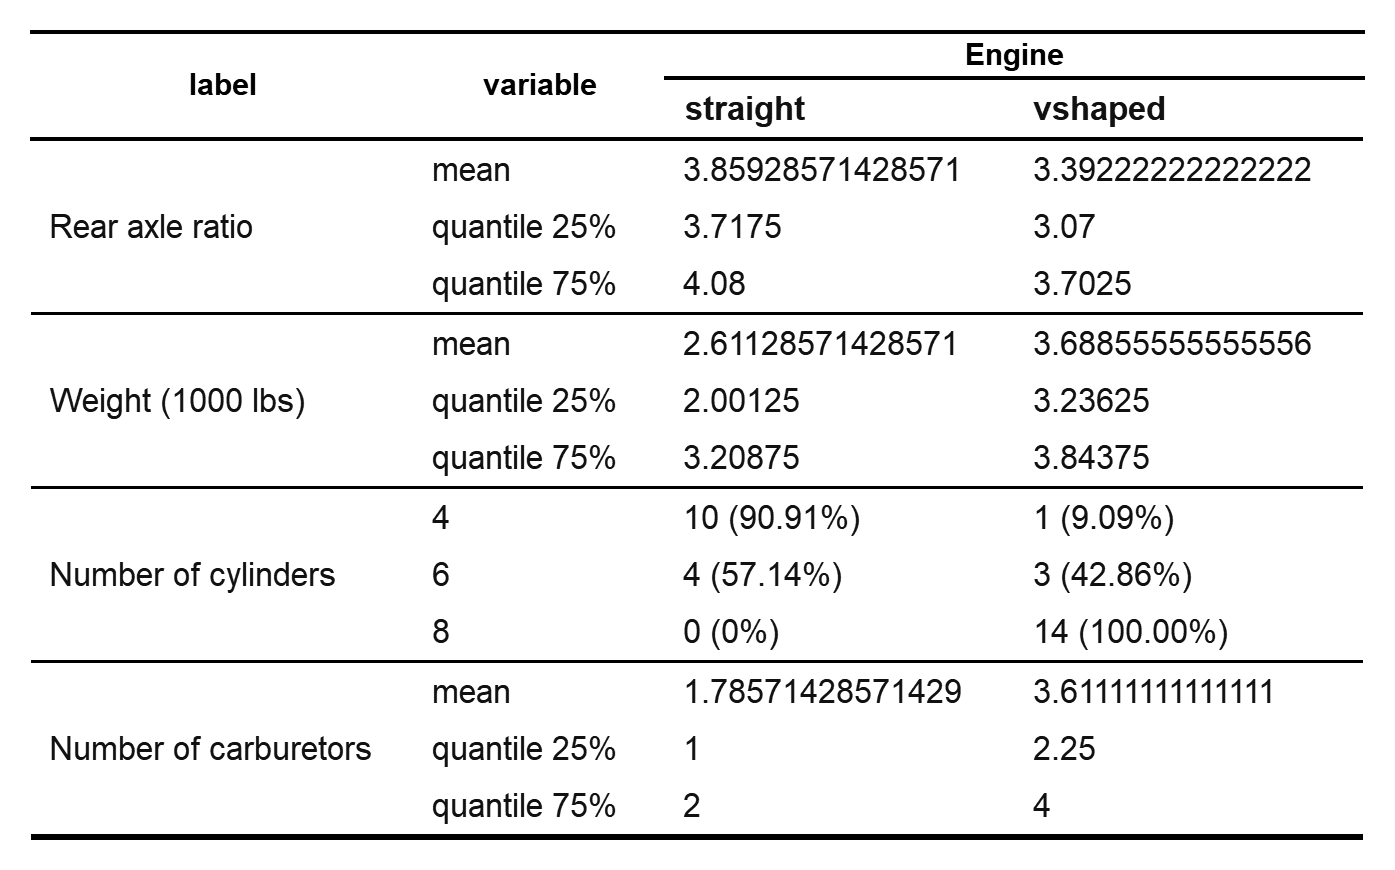
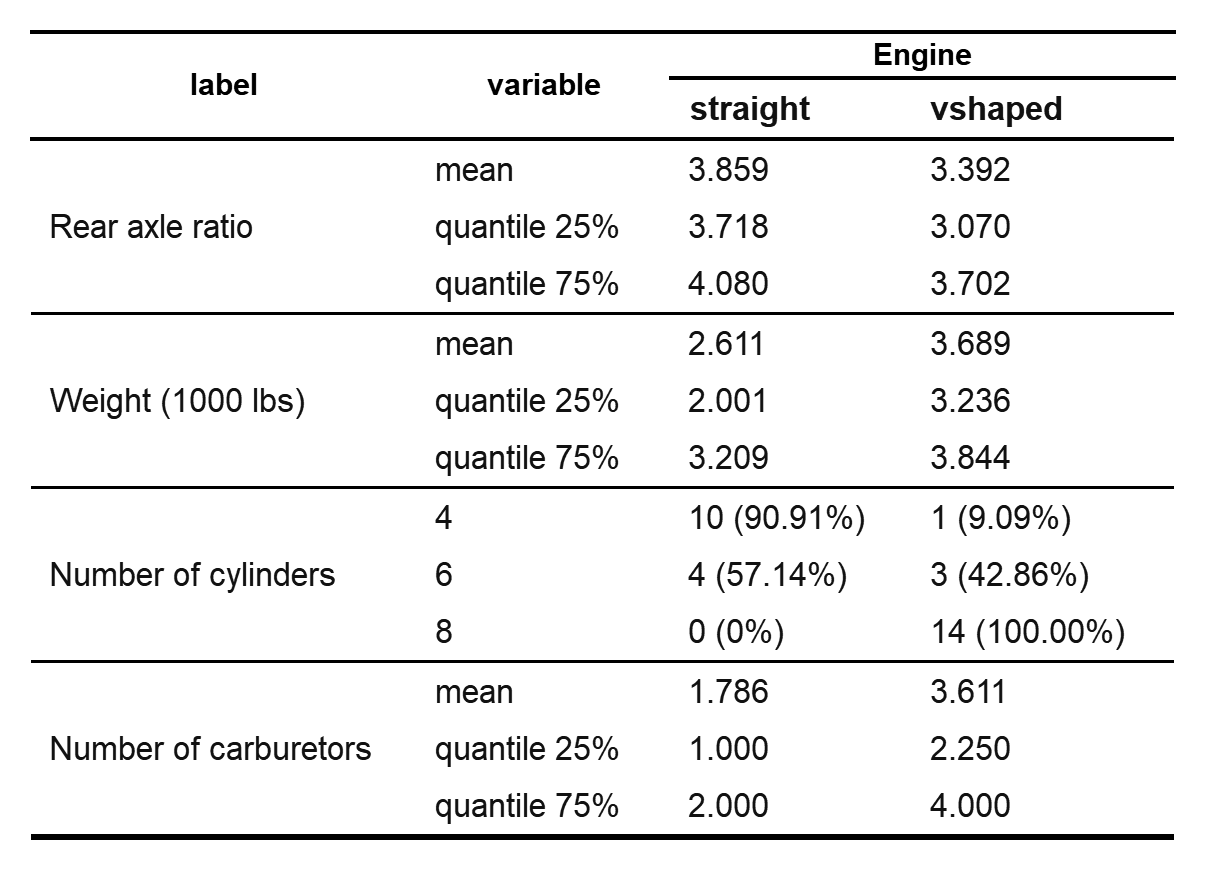
added format_fixed to custom function
updated doc and tests accordingly

diff --git a/README.md b/README.md
@@ -60,8 +60,8 @@ crosstable(iris)
 
 #tidyselection, by, custom functions
 library(tidyverse)
-ct1=crosstable(mtcars2, ends_with("t"), starts_with("c"), by=vs, 
-               funs=c(mean, quantile), funs_arg = list(probs=c(.25,.75))) %>% 
+ct1 = crosstable(mtcars2, ends_with("t"), starts_with("c"), by=vs, 
+                 funs=c(mean, quantile), funs_arg=list(probs=c(.25,.75), digits=3)) %>% 
     cross_to_flextable
 ```
 
@@ -69,7 +69,7 @@ ct1=crosstable(mtcars2, ends_with("t"), starts_with("c"), by=vs,
 
 ``` r
 #margin and totals
-ct2=crosstable(mtcars2, disp, vs, by=am, margin=c("row", "col"), total = "both") %>%
+ct2 = crosstable(mtcars2, disp, vs, by=am, margin=c("row", "col"), total="both") %>%
     cross_to_flextable
 ```
 
@@ -77,7 +77,7 @@ ct2=crosstable(mtcars2, disp, vs, by=am, margin=c("row", "col"), total = "both")
 
 ``` r
 #predicate selection, correlation, testing
-ct3=crosstable(mtcars2, is.numeric, by=hp, test=TRUE)  %>%
+ct3 = crosstable(mtcars2, is.numeric, by=hp, test=TRUE)  %>%
     cross_to_flextable
 ```
 
@@ -85,7 +85,7 @@ ct3=crosstable(mtcars2, is.numeric, by=hp, test=TRUE)  %>%
 
 ``` r
 #lambda selection, effect calculation
-ct4=crosstable(mtcars2, ~is.numeric(.x) && mean(.x)>50, by=vs, effect=TRUE)  %>%
+ct4 = crosstable(mtcars2, ~is.numeric(.x) && mean(.x)>50, by=vs, effect=TRUE)  %>%
     cross_to_flextable
 ```
 
@@ -94,7 +94,7 @@ ct4=crosstable(mtcars2, ~is.numeric(.x) && mean(.x)>50, by=vs, effect=TRUE)  %>%
 ``` r
 #Survival data (using formula UI)
 library(survival)
-ct5=crosstable(aml, Surv(time, status) ~ x,times=c(0,15,30,150), followup=TRUE)  %>%
+ct5 = crosstable(aml, Surv(time, status) ~ x,times=c(0,15,30,150), followup=TRUE)  %>%
     cross_to_flextable
 ```
 
